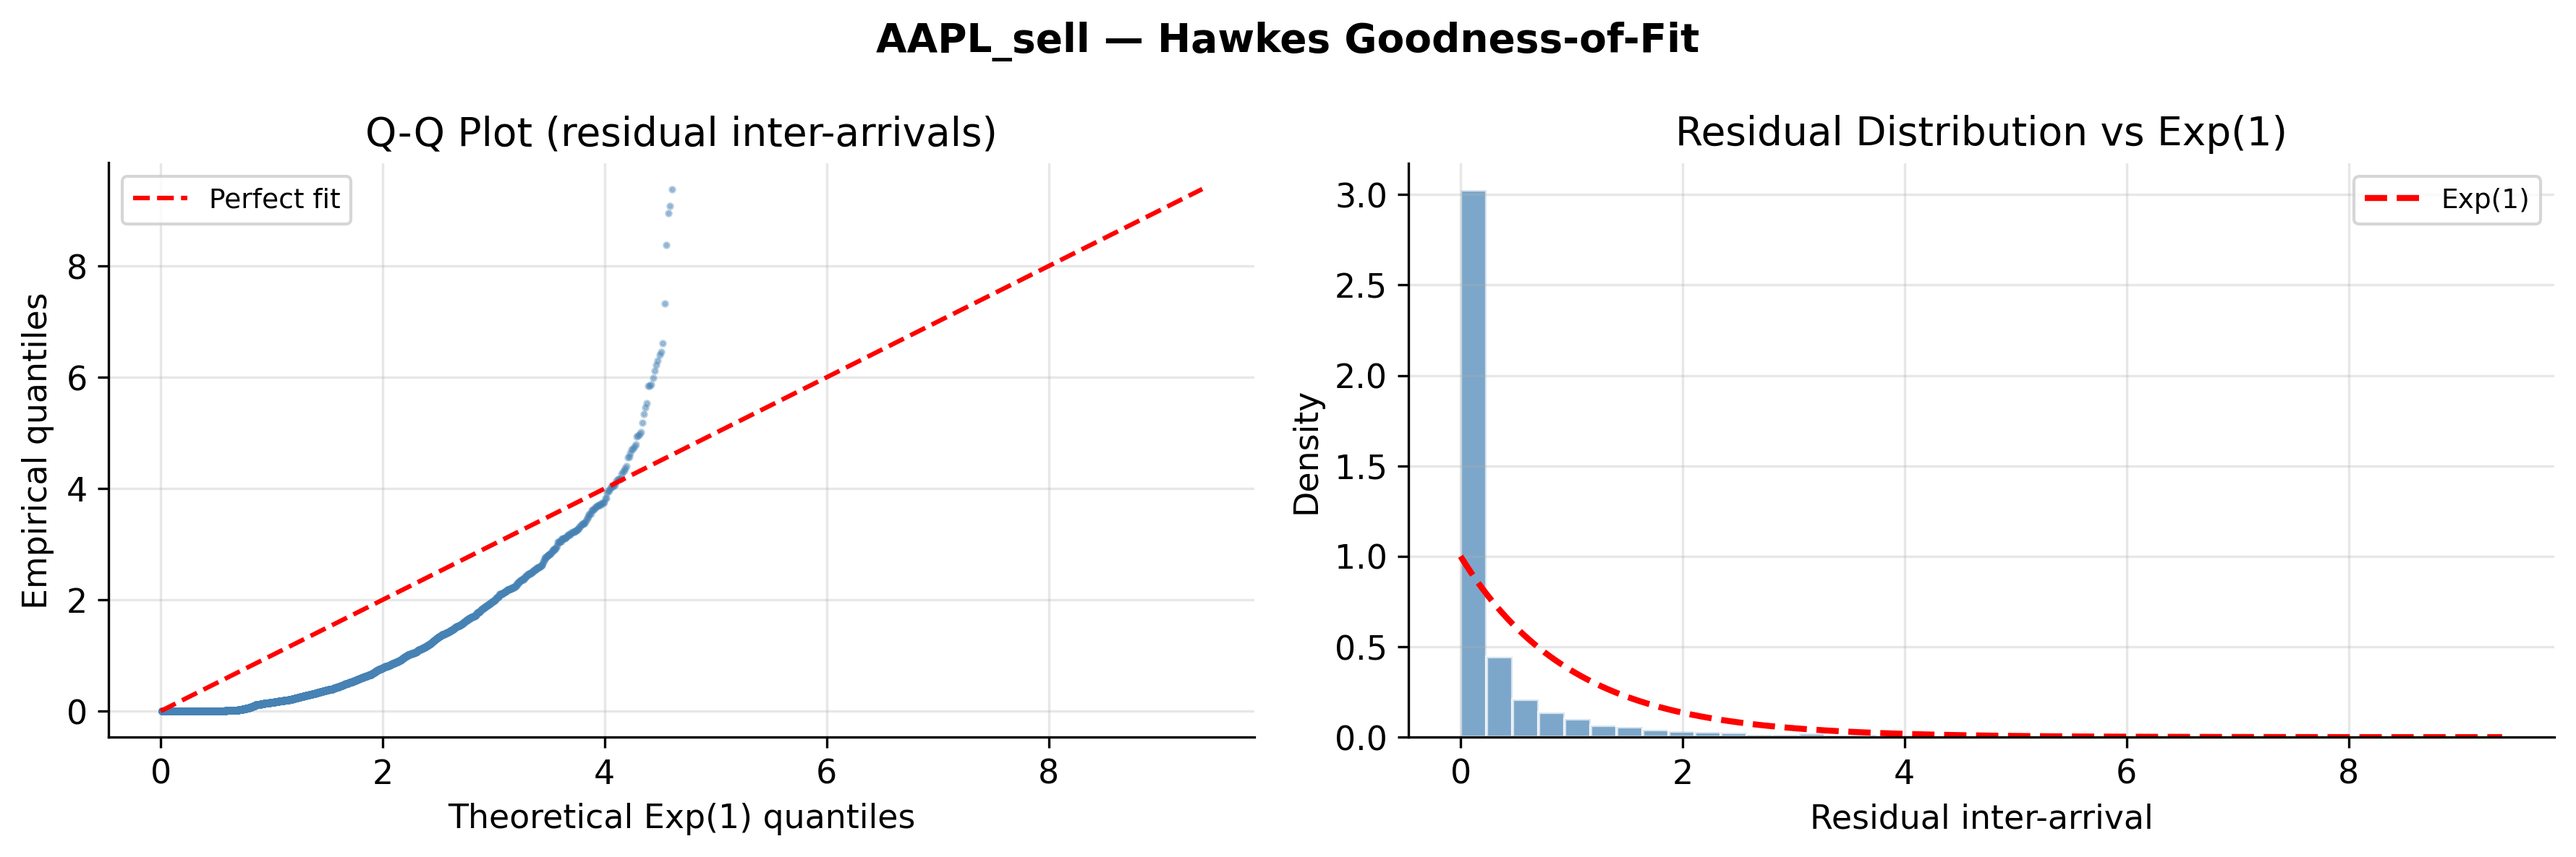
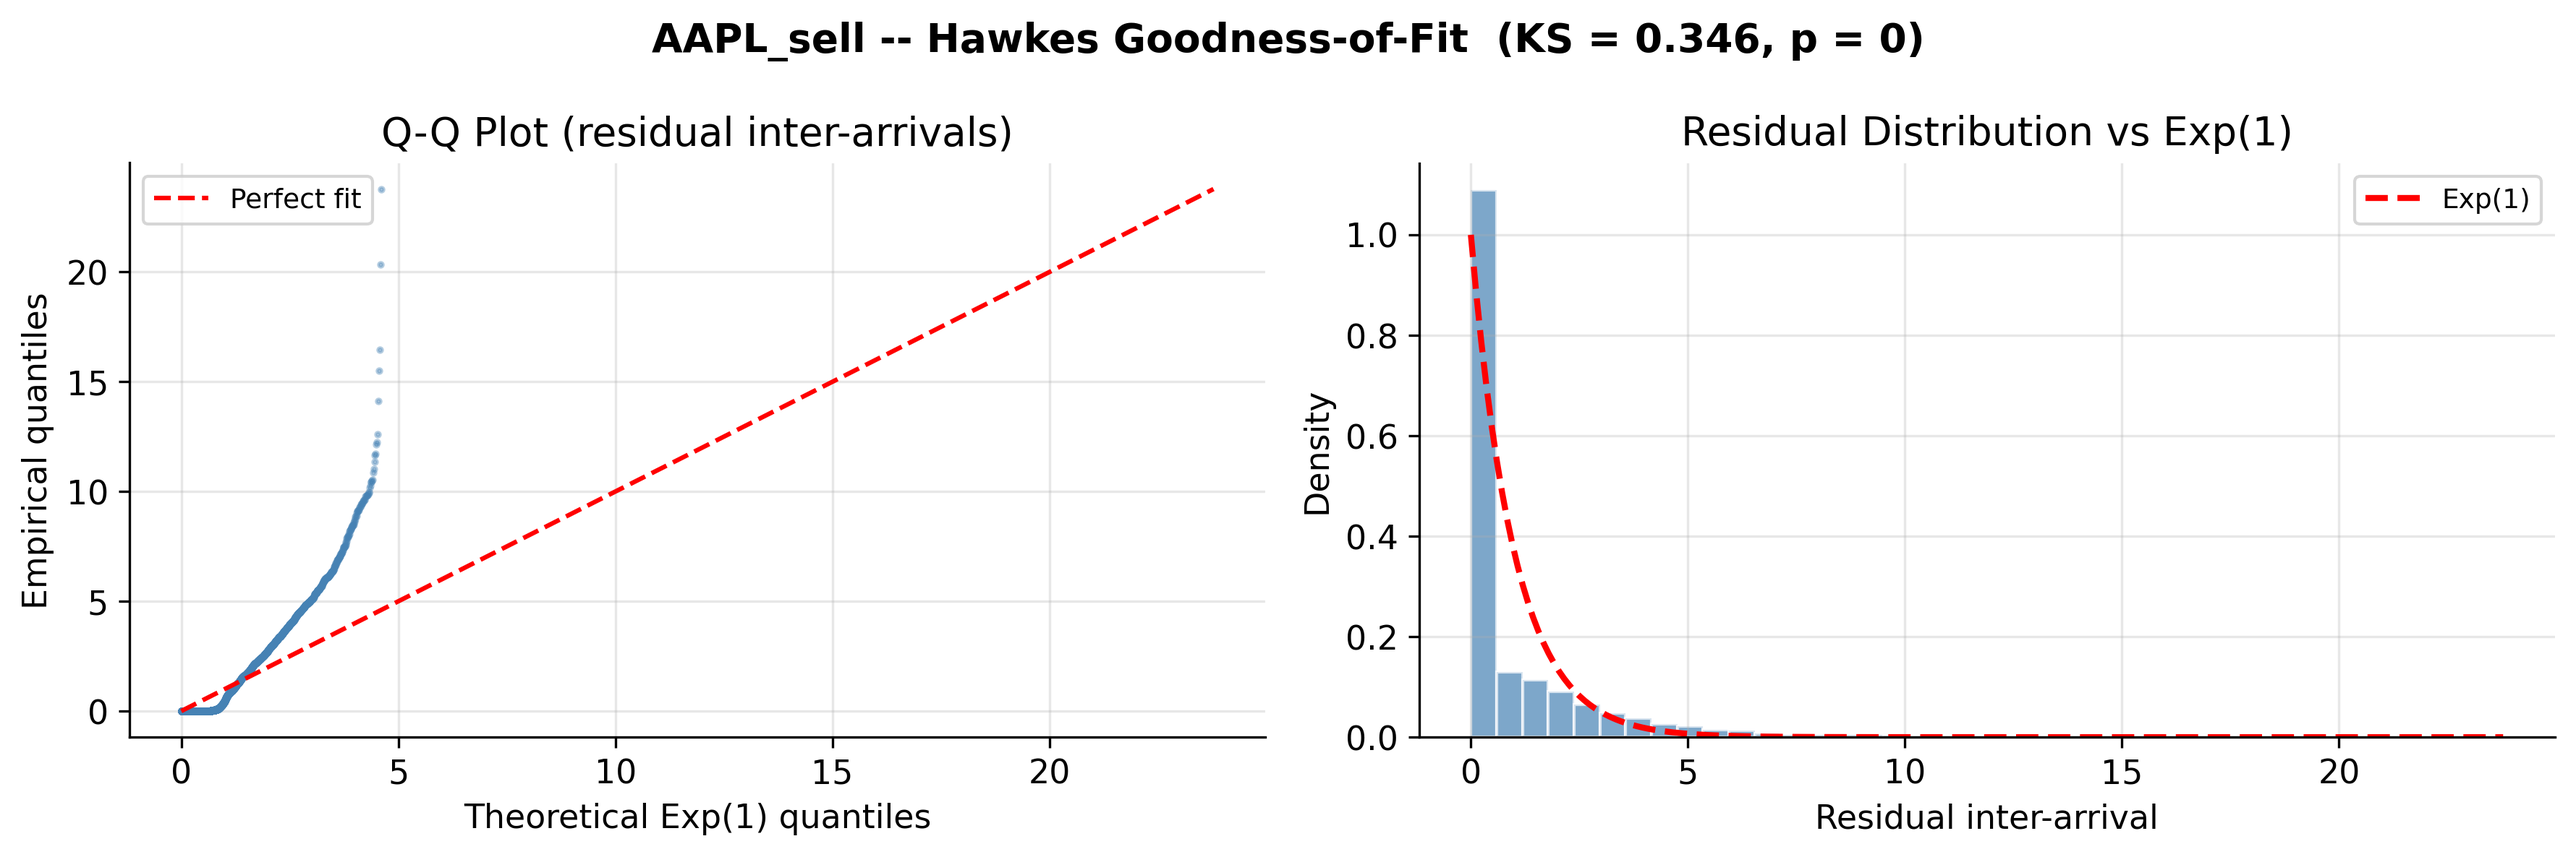
Fixed the QQ plotting for experiment 2

diff --git a/experiment_2.py b/experiment_2.py
@@ -134,14 +134,14 @@ def compute_residuals(T, mu, alpha, beta):
     """Return Lambda-transformed inter-arrivals; should be ~Exp(1) if fit is good."""
     T = np.sort(np.asarray(T, dtype=float))
     n = len(T)
-    A, Lambda = 0.0, np.zeros(n)
-    for i in range(n):
-        if i > 0:
-            dt = T[i] - T[i - 1]
-            A = A * np.exp(-beta * dt)
-            Lambda[i] = Lambda[i - 1] + mu * dt + (alpha / beta) * (1 - np.exp(-beta * dt)) * A
-        A += 1.0
-    return np.diff(Lambda)
+    residuals = np.empty(n - 1)
+    A = 0.0
+    for i in range(1, n):
+        dt = T[i] - T[i - 1]
+        e  = np.exp(-beta * dt)
+        residuals[i - 1] = mu * dt + (alpha / beta) * (1 - e) * (1.0 + A)
+        A = e * (A + 1.0)
+    return residuals
 
 
 # =============================================================================
